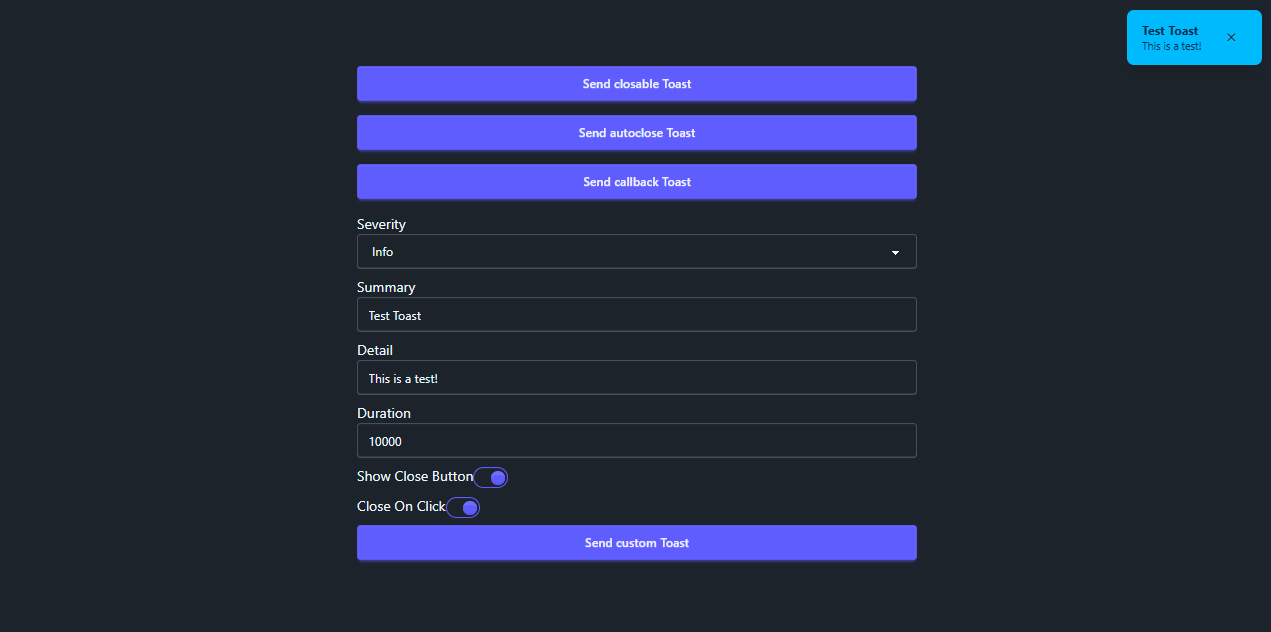
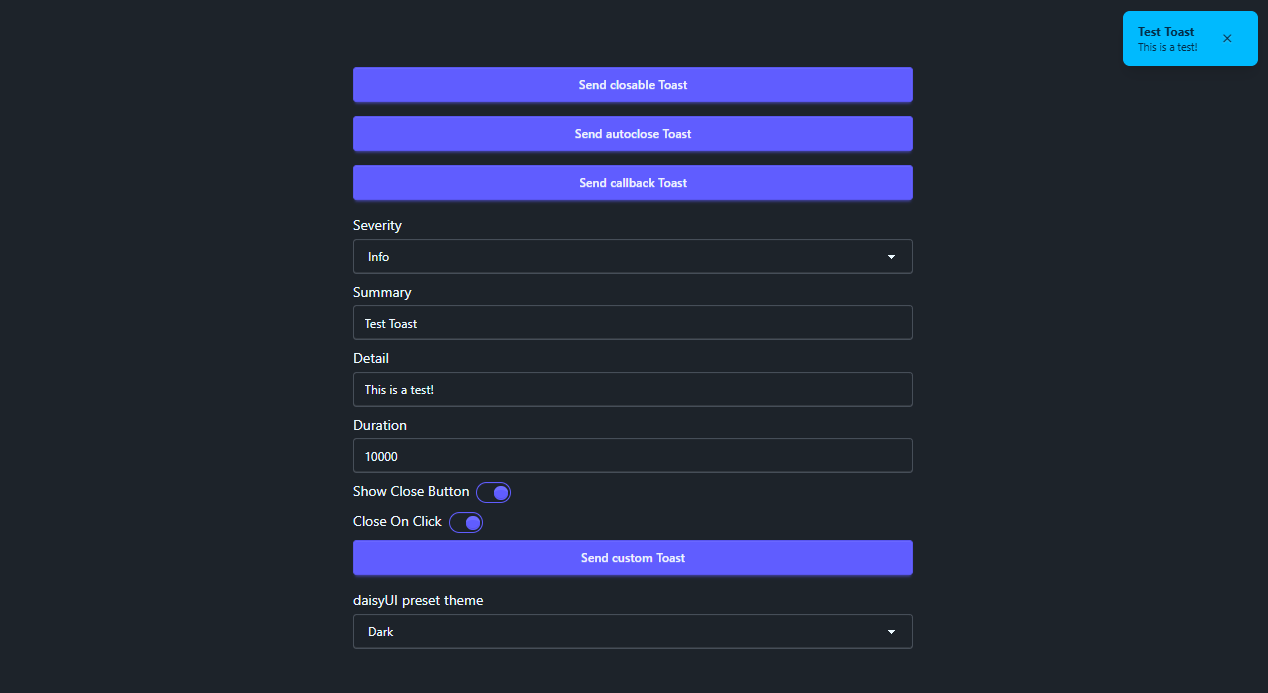
chore: add keywords to package and add themes to demo

Changed region(s): [[0.2768, 0.0902, 0.7382, 0.932], [0.892, 0.0301, 1.0, 0.1203]]

diff --git a/projects/demo/src/app/app.html b/projects/demo/src/app/app.html
@@ -30,7 +30,7 @@
         id="severity"
         name="severity"
         [(ngModel)]="severity"
-        class="select select-bordered w-full">
+        class="select mt-1 w-full">
         <option [value]="ToastSeverity.Custom">Custom</option>
         <option [value]="ToastSeverity.Success">Success</option>
         <option [value]="ToastSeverity.Info">Info</option>
@@ -45,7 +45,7 @@
         name="summary"
         type="text"
         [(ngModel)]="summary"
-        class="input input-bordered w-full" />
+        class="input mt-1 w-full" />
     </div>
     <div>
       <label for="detail">Detail</label>
@@ -54,7 +54,7 @@
         name="detail"
         type="text"
         [(ngModel)]="detail"
-        class="input input-bordered w-full" />
+        class="input mt-1 w-full" />
     </div>
     <div>
       <label for="duration">Duration</label>
@@ -63,7 +63,7 @@
         name="duration"
         type="number"
         [(ngModel)]="duration"
-        class="input input-bordered w-full" />
+        class="input mt-1 w-full" />
     </div>
     <div>
       <label for="showClose">Show Close Button</label>
@@ -72,7 +72,7 @@
         name="showClose"
         type="checkbox"
         [(ngModel)]="showClose"
-        class="toggle toggle-primary" />
+        class="toggle toggle-primary ml-2" />
     </div>
     <div>
       <label for="closeOnClick">Close On Click</label>
@@ -81,7 +81,7 @@
         name="closeOnClick"
         type="checkbox"
         [(ngModel)]="closeOnClick"
-        class="toggle toggle-primary" />
+        class="toggle toggle-primary ml-2" />
     </div>
     <button
       class="btn btn-primary flex"
@@ -90,4 +90,28 @@
       Send custom Toast
     </button>
   </form>
+
+  <div class="form-control">
+    <label for="theme">daisyUI preset theme</label>
+    <select
+      id="theme"
+      name="theme"
+      class="select mt-1 w-full"
+      (change)="setTheme($event)">
+      <option value="dark">Dark</option>
+      <option value="light">Light</option>
+      <option value="cupcake">Cupcake</option>
+      <option value="bumblebee">Bumblebee</option>
+      <option value="emerald">Emerald</option>
+      <option value="corporate">Corporate</option>
+      <option value="synthwave">Synthwave</option>
+      <option value="retro">Retro</option>
+      <option value="cyberpunk">Cyberpunk</option>
+      <option value="valentine">Valentine</option>
+      <option value="halloween">Halloween</option>
+      <option value="garden">Garden</option>
+      <option value="forest">Forest</option>
+      <option value="aqua">Aqua</option>
+    </select>
+  </div>
 </div>

diff --git a/projects/demo/src/app/app.ts b/projects/demo/src/app/app.ts
@@ -18,6 +18,43 @@ import {
 export class App {
   protected readonly toastService = inject(ToastService);
   protected readonly ToastSeverity = ToastSeverity;
+  protected readonly themes = [
+    'light',
+    'dark',
+    'cupcake',
+    'bumblebee',
+    'emerald',
+    'corporate',
+    'synthwave',
+    'retro',
+    'cyberpunk',
+    'valentine',
+    'halloween',
+    'garden',
+    'forest',
+    'aqua',
+    'lofi',
+    'pastel',
+    'fantasy',
+    'wireframe',
+    'black',
+    'luxury',
+    'dracula',
+    'cmyk',
+    'autumn',
+    'business',
+    'acid',
+    'lemonade',
+    'night',
+    'coffee',
+    'winter',
+    'dim',
+    'nord',
+    'sunset',
+    'caramellatte',
+    'abyss',
+    'silk',
+  ];
   protected severity = ToastSeverity.Custom;
   protected summary = '';
   protected detail = '';
@@ -70,5 +107,11 @@ export class App {
       showClose: this.showClose,
       closeOnClick: this.closeOnClick,
     });
+  }
+
+  protected setTheme(event: Event): void {
+    const selectElement = event.target as HTMLSelectElement;
+    const theme = selectElement.value;
+    document.documentElement.setAttribute('data-theme', theme || 'dark');
   }
 }

diff --git a/projects/daisyui-toaster/src/lib/services/toast.service.ts b/projects/daisyui-toaster/src/lib/services/toast.service.ts
@@ -1,13 +1,17 @@
 import { signal } from '@angular/core';
 
 import { Toast, ToastMessage } from '../models/toast';
-import { ToastConfig } from '../models/toastconfig';
+import {
+  ToastConfig,
+  ToastHorizontalPosition,
+  ToastVerticalPosition,
+} from '../models/toastconfig';
 
 export class ToastService {
   public toasts = signal<ToastMessage[]>([]);
   public zIndex = 1000;
-  public verticalPosition = 'top';
-  public horizontalPosition = 'end';
+  public verticalPosition = ToastVerticalPosition.Top;
+  public horizontalPosition = ToastHorizontalPosition.End;
   public defaultDuration = 5000;
   public defaultShowClose = true;
   public defaultCloseOnClick = false;

diff --git a/projects/demo/src/index.html b/projects/demo/src/index.html
@@ -2,10 +2,10 @@
 <html lang="en" data-theme="dark">
   <head>
     <meta charset="utf-8" />
-    <title>Demo</title>
+    <title>daisyui-toaster Demo</title>
     <base href="/" />
     <meta name="viewport" content="width=device-width, initial-scale=1" />
-    <link rel="icon" type="image/x-icon" href="favicon.ico" />
+    <link rel="icon" type="image/x-icon" href="daisyui-toaster.ico" />
   </head>
   <body>
     <app-root></app-root>

diff --git a/projects/demo/src/styles.css b/projects/demo/src/styles.css
@@ -1,7 +1,7 @@
 @import 'tailwindcss';
 @source "../../../dist/daisyui-toaster";
 @plugin "daisyui" {
-  themes: dark, light;
+  themes: all;
 }
 
 html,

diff --git a/README.md b/README.md
@@ -3,6 +3,8 @@
 [![bundle size](https://img.shields.io/bundlephobia/minzip/daisyui-toaster?color=%23FF006F&label=Bundle%20Size&style=for-the-badge)](https://bundlephobia.com/package/daisyui-toaster)
 [![Codecov](https://img.shields.io/codecov/c/github/jjs98/daisyui-toaster?style=for-the-badge)](https://codecov.io/gh/jjs98/daisyui-toaster)
 
+![daisyui-toaster Icon](docs/daisyui-toaster-128.png)
+
 # daisyui-toaster
 
 This is a customizable toast notification library for Angular applications, built with DaisyUI and Tailwind CSS.
